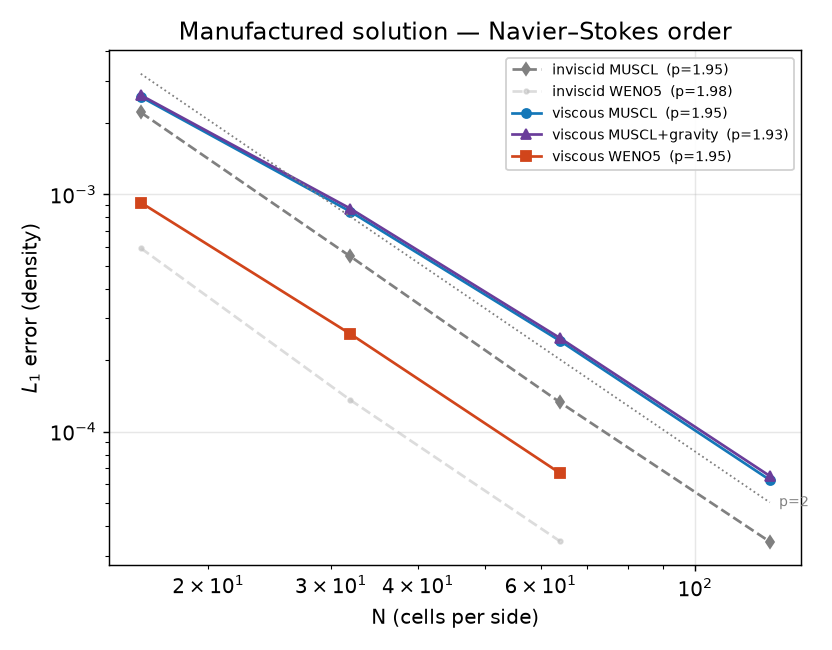
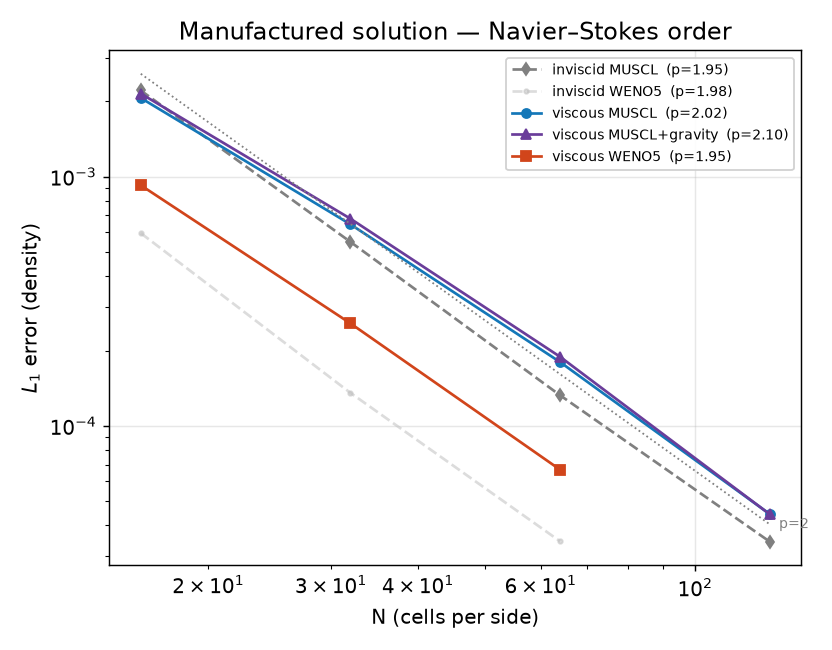
Schéma : flux visqueux dans le prédicteur de Hancock
Suite de #28. Le prédicteur ignorait la divergence visqueuse, ajoutée
seulement au correcteur : un équilibre visqueux gardait une erreur O(dt)
(erreur MMS visqueuse +14 % entre CFL 0.4 et 0.2).

- CPU (step2D, step2DY) : flux visqueux à t^n calculés une seule fois
  sur les faces intérieures + anneau fantôme (addViscousFluxes(..., ext)),
  divergence en demi-pas dans le prédicteur, mêmes flux au correcteur
  (identique bit à bit à l'ancien correcteur sur les faces intérieures).
- GPU : flux visqueux d'une face factorisé (viscCoreX/Y, variantes avec
  masque solide et sans masque), utilisé par les kernels de flux et par
  predictorBody / predictorYBody (mono-gaz et deux gaz).
- WENO5 et cut-cells (méthode des lignes) n'étaient pas concernés.
- mms : la sensibilité CFL visqueuse devient un gate (< 5 %).

Résultats : sensibilité CFL visqueuse +14.4 % -> -0.7 % ; ordre MMS
visqueux MUSCL 2.02, +gravité 2.10. Gates visqueux comparés à main :
Blasius Cf +7.0 % -> +6.8 %, lock-step immersed visqueux 4.2e-4 ->
2.5e-4, shear / immersed_noslip / deflagration quasi inchangés,
kh_amr / casedef_test / mlgpu_amr / cut-cells identiques. Les 25 gates
de la CI passent (suite GPU incluse).

Fiche MMS et figure régénérées ; ROADMAP, VALIDATION, NUMERICS mis à jour.

diff --git a/src/solver/Muscl2D.hpp b/src/solver/Muscl2D.hpp
@@ -58,6 +58,7 @@ inline Real maxStableDt(const Grid& g, Real cfl, Real mu = 0) {
 // Scratch buffers reused across steps.
 struct Scratch2D {
     std::vector<Cons> xL, xR, yB, yT, Fx, Fy;
+    std::vector<Cons> Vx, Vy; // viscous face fluxes at t^n (mu > 0)
     void resize(std::size_t n) {
         xL.resize(n); xR.resize(n); yB.resize(n); yT.resize(n);
         Fx.resize(n); Fy.resize(n);
@@ -77,9 +78,14 @@ struct Scratch2D {
 // normal heat flux). Solid/solid faces carry no viscous flux. The slip
 // pressure wall is handled by the convective flux; this shear makes it
 // no-slip. With solid = nullptr the path is byte-identical to before.
+// `ext` widens the face range by that many cells around the interior
+// (ext = 1: the faces of the 1-cell ghost ring, which the Hancock
+// predictor needs; the stencil then reaches 2 ghost layers, corners
+// included — every ghost fill covers them).
 inline void addViscousFluxes(const Grid& g, std::vector<Cons>& Fx,
                              std::vector<Cons>& Fy, Real mu,
-                             const std::uint8_t* solid = nullptr) {
+                             const std::uint8_t* solid = nullptr,
+                             int ext = 0) {
     const Real kT = heatConductivity(mu);
     const Real c23 = Real(2.0 / 3.0), c43 = Real(4.0 / 3.0);
     const auto sol = [&](int ii, int jj) {
@@ -87,8 +93,8 @@ inline void addViscousFluxes(const Grid& g, std::vector<Cons>& Fx,
     };
     const auto NS = [](Prim w) { w.u = -w.u; w.v = -w.v; return w; };
 
-    for (int j = NG; j < NG + g.ny; ++j) // x faces (i+1/2, j)
-        for (int i = NG - 1; i < NG + g.nx; ++i) {
+    for (int j = NG - ext; j < NG + g.ny + ext; ++j) // x faces (i+1/2, j)
+        for (int i = NG - 1 - ext; i < NG + g.nx + ext; ++i) {
             const bool sl = sol(i, j), sr = sol(i + 1, j);
             if (sl && sr) continue; // no viscous flux across a solid wall
             const Prim f00 = toPrim(g.at(i, j));
@@ -120,8 +126,8 @@ inline void addViscousFluxes(const Grid& g, std::vector<Cons>& Fx,
             F.E -= ub * txx + vb * txy + kT * Tx;
         }
 
-    for (int j = NG - 1; j < NG + g.ny; ++j) // y faces (i, j+1/2)
-        for (int i = NG; i < NG + g.nx; ++i) {
+    for (int j = NG - 1 - ext; j < NG + g.ny + ext; ++j) // y faces (i, j+1/2)
+        for (int i = NG - ext; i < NG + g.nx + ext; ++i) {
             const bool sb = sol(i, j), st = sol(i, j + 1);
             if (sb && st) continue;
             const Prim f00 = toPrim(g.at(i, j));
@@ -153,10 +159,6 @@ inline void addViscousFluxes(const Grid& g, std::vector<Cons>& Fx,
             F.E -= ub * txy + vb * tyy + kT * Ty;
         }
 }
-inline void addViscousFluxes(const Grid& g, Scratch2D& s, Real mu,
-                             const std::uint8_t* solid = nullptr) {
-    addViscousFluxes(g, s.Fx, s.Fy, mu, solid);
-}
 
 // Advance one step of size dt. Ghost cells must be filled by the caller.
 // Sources (gravity, and the optional per-cell `src`) enter the Hancock
@@ -166,7 +168,9 @@ inline void addViscousFluxes(const Grid& g, Scratch2D& s, Real mu,
 // after the conservative update — gravity with the energy work term taken
 // at the momentum midpoint; cell-local, so AMR refluxing is unaffected.
 // `src` (optional, size g.q.size()) must also be set on the 1-cell ghost
-// ring the predictor reads.
+// ring the predictor reads. The viscous flux divergence (mu > 0, from t^n
+// cell values) enters the predictor the same way; the same face fluxes are
+// then added to the corrector, so the viscous operator is evaluated once.
 //
 // `solid` (optionnel, taille g.q.size(), 0 = fluide) immerge un corps
 // solide : les cellules solides ne sont pas mises à jour, et chaque face
@@ -190,6 +194,18 @@ inline void step2D(Grid& g, Real dt, Scratch2D& s, Real mu = 0,
     };
     const auto mirX = [](Cons c) { c.mx = -c.mx; return c; };
     const auto mirY = [](Cons c) { c.my = -c.my; return c; };
+
+    // Viscous face fluxes at t^n, interior + ghost-ring faces.
+    if (mu > 0) {
+        s.Vx.assign(g.q.size(), Cons{0, 0, 0, 0});
+        s.Vy.assign(g.q.size(), Cons{0, 0, 0, 0});
+        addViscousFluxes(g, s.Vx, s.Vy, mu, solid, 1);
+    }
+    const Real idx = Real(1) / g.dx, idy = Real(1) / g.dy;
+    const auto inRing = [&](int ii, int jj) {
+        return ii >= NG - 1 && ii <= NG + g.nx && jj >= NG - 1 &&
+               jj <= NG + g.ny;
+    };
 
     // Predictor: time-advanced face states (needs a 1-cell ring of ghosts).
     for (int j = 1; j < ty - 1; ++j) {
@@ -217,6 +233,12 @@ inline void step2D(Grid& g, Real dt, Scratch2D& s, Real mu = 0,
                        Cons{0, rho * gx, rho * gy, gx * q0.mx + gy * q0.my};
             }
             if (src != nullptr) adv += Real(0.5) * dt * src[id];
+            if (mu > 0 && inRing(i, j)) { // half-dt viscous divergence
+                const Cons dv =
+                    idx * (s.Vx[g.idx(i - 1, j)] - s.Vx[id]) +
+                    idy * (s.Vy[g.idx(i, j - 1)] - s.Vy[id]);
+                adv += Real(0.5) * dt * dv;
+            }
             s.xL[id] = xl + adv;
             s.xR[id] = xr + adv;
             s.yB[id] = yb + adv;
@@ -267,7 +289,14 @@ inline void step2D(Grid& g, Real dt, Scratch2D& s, Real mu = 0,
             s.Fy[id] = hllcFluxY(toPrim(B), toPrim(T));
         }
 
-    if (mu > 0) addViscousFluxes(g, s, mu, solid);
+    if (mu > 0) { // same t^n viscous fluxes as the predictor
+        for (int j = NG; j < NG + g.ny; ++j)
+            for (int i = NG - 1; i < NG + g.nx; ++i)
+                s.Fx[g.idx(i, j)] += s.Vx[g.idx(i, j)];
+        for (int j = NG - 1; j < NG + g.ny; ++j)
+            for (int i = NG; i < NG + g.nx; ++i)
+                s.Fy[g.idx(i, j)] += s.Vy[g.idx(i, j)];
+    }
 
     // Conservative update.
     const Real lx = dt / g.dx, ly = dt / g.dy;

diff --git a/src/solver/Muscl2DSpecies.hpp b/src/solver/Muscl2DSpecies.hpp
@@ -25,6 +25,7 @@ struct ScratchY {
     std::vector<Real> yxL, yxR, yyB, yyT, Fpx, Fpy; // face Y and phi flux
     std::vector<Real> gxL, gxR, gyB, gyT;           // face Gamma
     std::vector<Real> Ssx, Ssy, Fgx, Fgy; // contact speeds, Gamma flux
+    std::vector<Cons> Vx, Vy; // viscous face fluxes at t^n (mu > 0)
     void resize(std::size_t n) {
         xL.resize(n); xR.resize(n); yB.resize(n); yT.resize(n);
         Fx.resize(n); Fy.resize(n);
@@ -67,7 +68,9 @@ inline Real maxStableDtY(const Grid& g, const std::vector<Real>& Gm,
 // generated. phi = rho*Y remains the conserved species mass.
 // mu > 0 adds the central-difference Stokes + Fourier viscous flux to
 // the convective face fluxes (shared single-gas operator) — needed for
-// deflagrations, where the flame propagates by heat conduction.
+// deflagrations, where the flame propagates by heat conduction. As in
+// step2D, its t^n divergence also enters the Hancock predictor (half dt),
+// so a viscous equilibrium carries no O(dt) splitting error.
 inline void step2DY(Grid& g, std::vector<Real>& phi,
                     std::vector<Real>& Gm, Real dt, ScratchY& s,
                     const GasPair& gas, Real mu = 0) {
@@ -83,6 +86,14 @@ inline void step2DY(Grid& g, std::vector<Real>& phi,
     };
     const Real Gmin = std::min(gas.Gamma(0), gas.Gamma(1));
     const Real Gmax = std::max(gas.Gamma(0), gas.Gamma(1));
+
+    // Viscous face fluxes at t^n, interior + ghost-ring faces.
+    if (mu > 0) {
+        s.Vx.assign(g.q.size(), Cons{0, 0, 0, 0});
+        s.Vy.assign(g.q.size(), Cons{0, 0, 0, 0});
+        addViscousFluxes(g, s.Vx, s.Vy, mu, nullptr, 1);
+    }
+    const Real idx = Real(1) / g.dx, idy = Real(1) / g.dy;
 
     // Predictor: limited slopes on conserved vars AND on Y; the face
     // Gamma comes from the face Y (reconstructed, not time-advanced —
@@ -156,9 +167,16 @@ inline void step2DY(Grid& g, std::vector<Real>& phi,
             const Cons xr = toConsG(pxr, s.gxR[id]);
             const Cons yb = toConsG(pyb, s.gyB[id]);
             const Cons yt = toConsG(pyt, s.gyT[id]);
-            const Cons adv =
+            Cons adv =
                 hx * (fluxXG(pxl, s.gxL[id]) - fluxXG(pxr, s.gxR[id])) +
                 hy * (fluxYG(pyb, s.gyB[id]) - fluxYG(pyt, s.gyT[id]));
+            if (mu > 0 && i >= NG - 1 && i <= NG + g.nx && j >= NG - 1 &&
+                j <= NG + g.ny) { // half-dt viscous divergence
+                const Cons dv =
+                    idx * (s.Vx[g.idx(i - 1, j)] - s.Vx[id]) +
+                    idy * (s.Vy[g.idx(i, j - 1)] - s.Vy[id]);
+                adv += Real(0.5) * dt * dv;
+            }
             s.xL[id] = xl + adv;
             s.xR[id] = xr + adv;
             s.yB[id] = yb + adv;
@@ -213,7 +231,15 @@ inline void step2DY(Grid& g, std::vector<Real>& phi,
 
     // Viscous flux (Stokes + Fourier) on the conserved faces — drives
     // the deflagration's heat conduction; species/Gamma fluxes unchanged.
-    if (mu > 0) addViscousFluxes(g, s.Fx, s.Fy, mu);
+    // Same t^n fluxes as the predictor.
+    if (mu > 0) {
+        for (int j = NG; j < NG + g.ny; ++j)
+            for (int i = NG - 1; i < NG + g.nx; ++i)
+                s.Fx[g.idx(i, j)] += s.Vx[g.idx(i, j)];
+        for (int j = NG - 1; j < NG + g.ny; ++j)
+            for (int i = NG; i < NG + g.nx; ++i)
+                s.Fy[g.idx(i, j)] += s.Vy[g.idx(i, j)];
+    }
 
     // Conservative update (Cons and species together).
     const Real lx = dt / g.dx, ly = dt / g.dy;

diff --git a/src/drivers/mms.cpp b/src/drivers/mms.cpp
@@ -19,11 +19,10 @@
 //
 // Gates : ordre observe (paire la plus fine) >= 1.8 (conception 2) en visqueux
 // (MUSCL, WENO5, MUSCL + gravite) ET en inviscide MUSCL ; et erreur
-// independante de la CFL en inviscide MUSCL (|e(0.4)/e(0.2) - 1| < 5 %) :
-// un source ajoute APRES le pas (hors predicteur) laisse une erreur O(dt)
-// -> ordre 1 et erreur proportionnelle a la CFL. En visqueux le flux
-// visqueux n'est pas encore dans le predicteur : la dependance a la CFL
-// y est affichee (informatif), pas encore une porte.
+// independante de la CFL en MUSCL, inviscide ET visqueux
+// (|e(0.4)/e(0.2) - 1| < 5 %) : un terme (source, flux visqueux) laisse
+// hors du predicteur de Hancock donne une erreur O(dt) sur l'equilibre
+// -> erreur proportionnelle a la CFL (et ordre 1 en inviscide).
 
 #include "core/Boundary.hpp"
 #include "core/Grid.hpp"
@@ -265,21 +264,20 @@ int main() {
     const double eMuscl = orderStudy(0.0, false);
     const double eWeno = orderStudy(0.0, true);
 
-    std::printf("== Sensibilite a la CFL (splitting du source) ==\n");
+    std::printf("== Sensibilite a la CFL (termes hors predicteur) ==\n");
     const double cInv = cflSensitivity(0.0, false);
     const double cVisc = cflSensitivity(0.01, false);
 
     const bool okOrder = vMuscl > 1.8 && vWeno > 1.8 && vGrav > 1.8 &&
                          eMuscl > 1.8;
-    const bool okCfl = std::fabs(cInv) < 0.05;
+    const bool okCfl = std::fabs(cInv) < 0.05 && std::fabs(cVisc) < 0.05;
     const bool ok = okOrder && okCfl;
     std::printf("\n%s — operateur Navier-Stokes ordre 2 : visqueux MUSCL "
                 "%.2f, WENO5 %.2f ; visqueux+gravite %.2f (gate 1.8)\n",
                 ok ? "PASS" : "FAIL", vMuscl, vWeno, vGrav);
     std::printf("  inviscide MUSCL %.2f (gate 1.8) ; sensibilite CFL "
-                "inviscide %+.1f %% (gate 5 %%)\n", eMuscl, 100 * cInv);
-    std::printf("  [info] inviscide WENO5 %.2f ; sensibilite CFL visqueux "
-                "%+.1f %% (flux visqueux hors predicteur)\n",
-                eWeno, 100 * cVisc);
+                "inviscide %+.1f %%, sensibilite CFL visqueux %+.1f %% "
+                "(gate 5 %%)\n", eMuscl, 100 * cInv, 100 * cVisc);
+    std::printf("  [info] inviscide WENO5 %.2f\n", eWeno);
     return ok ? 0 : 1;
 }

diff --git a/vv/generate.py b/vv/generate.py
@@ -1113,7 +1113,7 @@ order).
 | viscous + gravity, MUSCL | {mms.get('vgrav', '—')} |
 | inviscid, MUSCL | {mms.get('imuscl', '—')} |
 | CFL sensitivity, inviscid MUSCL (gate 5 %) | {mms.get('cinv', '—')} % |
-| CFL sensitivity, viscous MUSCL (info) | {mms.get('cvisc', '—')} % |
+| CFL sensitivity, viscous MUSCL (gate 5 %) | {mms.get('cvisc', '—')} % |
 
 ## Discussion
 Both schemes reach order **~2** on the viscous operator, capped at 2 by the
@@ -1121,12 +1121,10 @@ Both schemes reach order **~2** on the viscous operator, capped at 2 by the
 gravity variant stays at 2. Inviscid MUSCL is order 2 with an error
 independent of the CFL. This used to be ~1: the source was added *after*
 the step, outside the Hancock predictor, which leaves an O(dt) error on the
-equilibrium (error ∝ CFL). The same splitting affected gravity; both now
-enter the predictor as a half-dt term (CPU and GPU), which also makes a
-fluid at rest under gravity hydrostatically balanced to the float32 floor.
-The viscous flux is still evaluated outside the predictor, hence the
-remaining CFL sensitivity of the viscous case (informative until it moves
-into the predictor).""")
+equilibrium (error ∝ CFL). The same splitting affected gravity and the
+viscous flux (+14 % between CFL 0.4 and 0.2); all three now enter the
+predictor as a half-dt term (CPU and GPU), which also makes a fluid at rest
+under gravity hydrostatically balanced to the float32 floor.""")
 
     # ---- fiche 1c: 0D reactor kinetics (verification vs analytic) -------
     fiche("reactor.md", f"""# 0D reactor kinetics — *verification vs analytic*

diff --git a/docs/VALIDATION.md b/docs/VALIDATION.md
@@ -36,18 +36,18 @@ The numbers below are from the drivers (Apple M4, float32). They may vary by
 | Entropy wave | WENO5 | 3.72 | 5 (capped by RK3) |
 | 2D isentropic vortex | MUSCL / WENO5 | 2.09 / 1.73 | ~2 (1-pt face flux) |
 | Sod (discontinuity) | MUSCL / WENO5 | 0.91 / 0.91 | 1 |
-| **Viscous MMS** (`mms`) | MUSCL / WENO5 | **1.95 / 1.95** | 2 (central viscous) |
-| Viscous MMS + gravity | MUSCL | 1.93 | 2 |
+| **Viscous MMS** (`mms`) | MUSCL / WENO5 | **2.02 / 1.95** | 2 (central viscous) |
+| Viscous MMS + gravity | MUSCL | 2.10 | 2 |
 | Inviscid MMS (source coupling) | MUSCL | 1.95 | 2 (gate; was ~1 with the source outside the predictor) |
-| MMS error vs CFL (0.4 / 0.2, N=64) | MUSCL inviscid / viscous | +0.3 % / +14.4 % | ~0 (gate 5 % inviscid; viscous informative) |
+| MMS error vs CFL (0.4 / 0.2, N=64) | MUSCL inviscid / viscous | +0.3 % / −0.7 % | ~0 (gate 5 %; viscous was +14 % with the viscous flux outside the predictor) |
 | `sod1d` (regression) | MUSCL | 0.90 | gate > 0.7 |
 
 > The viscous term caps at 2 (central flux, shared by both schemes); WENO's
 > high order only shows in grid-aligned smooth flow, and mainly gives a **much
 > smaller error constant**. MMS orders are read on the finest grid pair
 > (N=16 is pre-asymptotic). The CFL check catches a source split outside the
-> Hancock predictor (O(dt) error: +100 %); the viscous flux is still outside
-> it, hence the residual viscous sensitivity. Details: [`NUMERICS.md`](NUMERICS.md).
+> Hancock predictor (O(dt) error: +100 %), or a viscous flux left outside it
+> (+14 %). Details: [`NUMERICS.md`](NUMERICS.md).
 
 ### 1.2 Conservation
 
@@ -103,7 +103,7 @@ Each GPU path is compared to its CPU reference. Max relative discrepancy
 | **Chapman-Jouguet detonation** | `detonation` | speed D vs exact D_CJ (4.6809) | uniform +1.3 %, AMR CPU/GPU +0.8 % |
 | **Blasius boundary layer** | `blasius` | profile RMS(u/U − f') | 1.36e-2 (gate 3e-2) |
 | | | δ99 vs Blasius | −2.0 % |
-| | | Cf vs 0.664/√Re_x | +7.0 % |
+| | | Cf vs 0.664/√Re_x | +6.8 % |
 | **0D isothermal reactor** | `reactor` g1 | λ vs analytic solution | err 8.4e-8 (gate 1e-5) |
 | 0D adiabatic reactor | `reactor` g2 | T vs equilibrium (5.2) | exact (residual 4.8e-7) |
 | Stiff reactor (A=1e4, dt=1) | `reactor` g3 | stability | bounded, λ=1 |

diff --git a/vv/cases/mms.md b/vv/cases/mms.md
@@ -25,12 +25,12 @@ order).
 
 | Operator | Observed order |
 |---|---|
-| viscous, MUSCL | 1.95 |
+| viscous, MUSCL | 2.02 |
 | viscous, WENO5 | 1.95 |
-| viscous + gravity, MUSCL | 1.93 |
+| viscous + gravity, MUSCL | 2.10 |
 | inviscid, MUSCL | 1.95 |
 | CFL sensitivity, inviscid MUSCL (gate 5 %) | +0.3 % |
-| CFL sensitivity, viscous MUSCL (info) | +14.4 % |
+| CFL sensitivity, viscous MUSCL (gate 5 %) | -0.7 % |
 
 ## Discussion
 Both schemes reach order **~2** on the viscous operator, capped at 2 by the
@@ -38,12 +38,10 @@ Both schemes reach order **~2** on the viscous operator, capped at 2 by the
 gravity variant stays at 2. Inviscid MUSCL is order 2 with an error
 independent of the CFL. This used to be ~1: the source was added *after*
 the step, outside the Hancock predictor, which leaves an O(dt) error on the
-equilibrium (error ∝ CFL). The same splitting affected gravity; both now
-enter the predictor as a half-dt term (CPU and GPU), which also makes a
-fluid at rest under gravity hydrostatically balanced to the float32 floor.
-The viscous flux is still evaluated outside the predictor, hence the
-remaining CFL sensitivity of the viscous case (informative until it moves
-into the predictor).
+equilibrium (error ∝ CFL). The same splitting affected gravity and the
+viscous flux (+14 % between CFL 0.4 and 0.2); all three now enter the
+predictor as a half-dt term (CPU and GPU), which also makes a fluid at rest
+under gravity hydrostatically balanced to the float32 floor.
 
 ---
 *Part of the [V&V dossier](../README.md). Regenerate: `python3 vv/generate.py`. Source data: [`../data/`](../data/).*

diff --git a/docs/NUMERICS.md b/docs/NUMERICS.md
@@ -131,7 +131,10 @@ $$\mathbf F_v = \big(0,\ \tau_{xx},\ \tau_{xy},\ u\tau_{xx}+v\tau_{xy} + \kappa\
 with conductivity $\kappa = \dfrac{\mu\,\gamma}{(\gamma-1)\,\mathrm{Pr}}$
 (Pr = 0.72). Face gradients use **2nd-order central differences** (2-point
 normal, 4-point average for transverse) — hence a viscous operator of **order
-2** regardless of the inviscid scheme (verified by MMS, see §11).
+2** regardless of the inviscid scheme (verified by MMS, see §11). In the
+MUSCL-Hancock steps the t^n viscous divergence also enters the predictor
+(half dt), like the sources: otherwise a viscous equilibrium carries an O(dt)
+splitting error (the MMS error moved +14 % between CFL 0.4 and 0.2).
 
 ---
 
@@ -254,7 +257,7 @@ flowchart TD
 | Tool | What it checks |
 |---|---|
 | `convergence` | smooth Euler order: entropy wave (~5 WENO), vortex (~2); Sod (~1, discontinuity) |
-| `mms` | order of the **Navier–Stokes** operator via manufactured solutions: viscous order 2 (MUSCL 1.95, WENO5 1.95), + gravity source; inviscid source coupling order 2 and CFL-independent |
+| `mms` | order of the **Navier–Stokes** operator via manufactured solutions: viscous order 2 (MUSCL 2.02, WENO5 1.95), + gravity source; error CFL-independent (sources and viscous flux inside the Hancock predictor) |
 | `casedef_test` | equivalence of the declarative system to the historical presets |
 | lock-step `mlgpu_amr`, `dmr_amr`… | GPU **bit-identical** to the CPU |
 

diff --git a/ROADMAP.md b/ROADMAP.md
@@ -131,8 +131,14 @@ characteristic non-reflecting BC remains in the backlog.
     order on the finest pair, stops WENO5 at N=64 (fp32 stagnation above), and
     gates the CFL sensitivity (inviscid < 5 %). The old viscous 2.10 was
     flattered by the split error (~60 % of the error at N=128): now 1.95.
-  - [ ] Viscous flux in the predictor (CPU + GPU, all MUSCL paths): the
-    viscous MMS error still moves +14 % between CFL 0.4 and 0.2. Then gate it.
+  - [x] **Viscous flux in the predictor** (CPU `step2D` / `step2DY`, GPU
+    `predictorBody` / `predictorYBody`): the t^n viscous face fluxes are
+    computed once over the interior + ghost-ring faces, their divergence
+    enters the predictor (half dt) and the same fluxes go to the corrector.
+    WENO5 and cut cells (method of lines) were already consistent. Viscous MMS
+    CFL sensitivity +14 % → −0.7 %, now gated (< 5 %); viscous order 2.02.
+    Other viscous gates barely move (Blasius Cf +7.0 % → +6.8 %, immersed
+    viscous lock-step 4.2e-4 → 2.5e-4).
 
 ### v1.1 — See and measure *(demo + lab)*
 The project gains its eyes and its scientific instrumentation.
